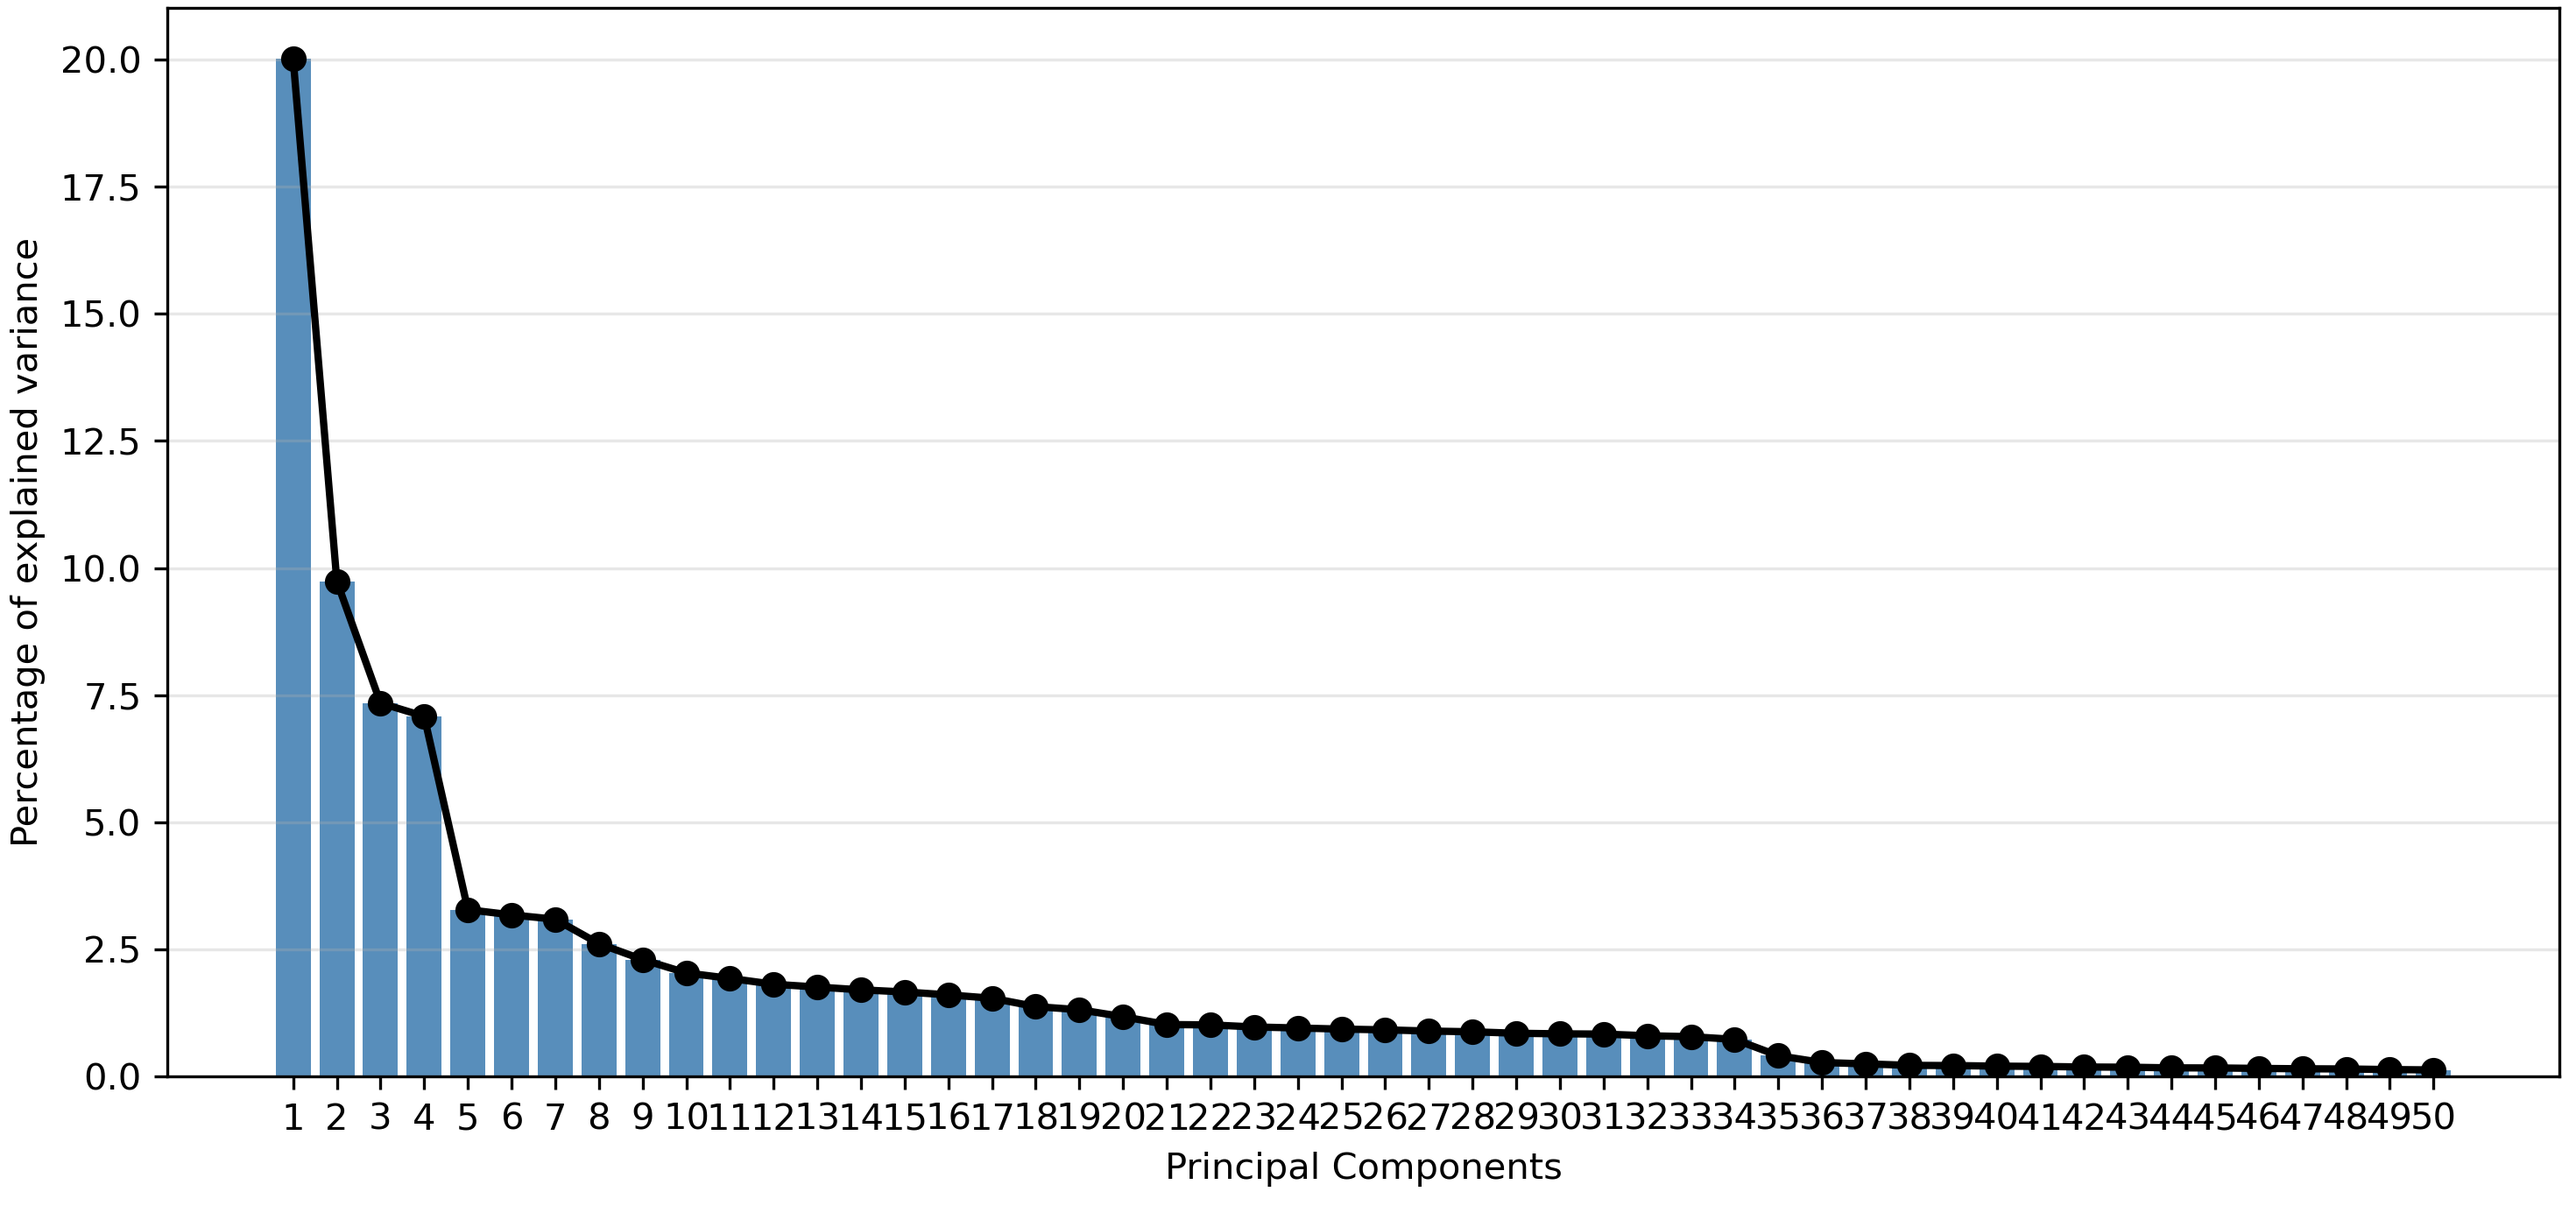
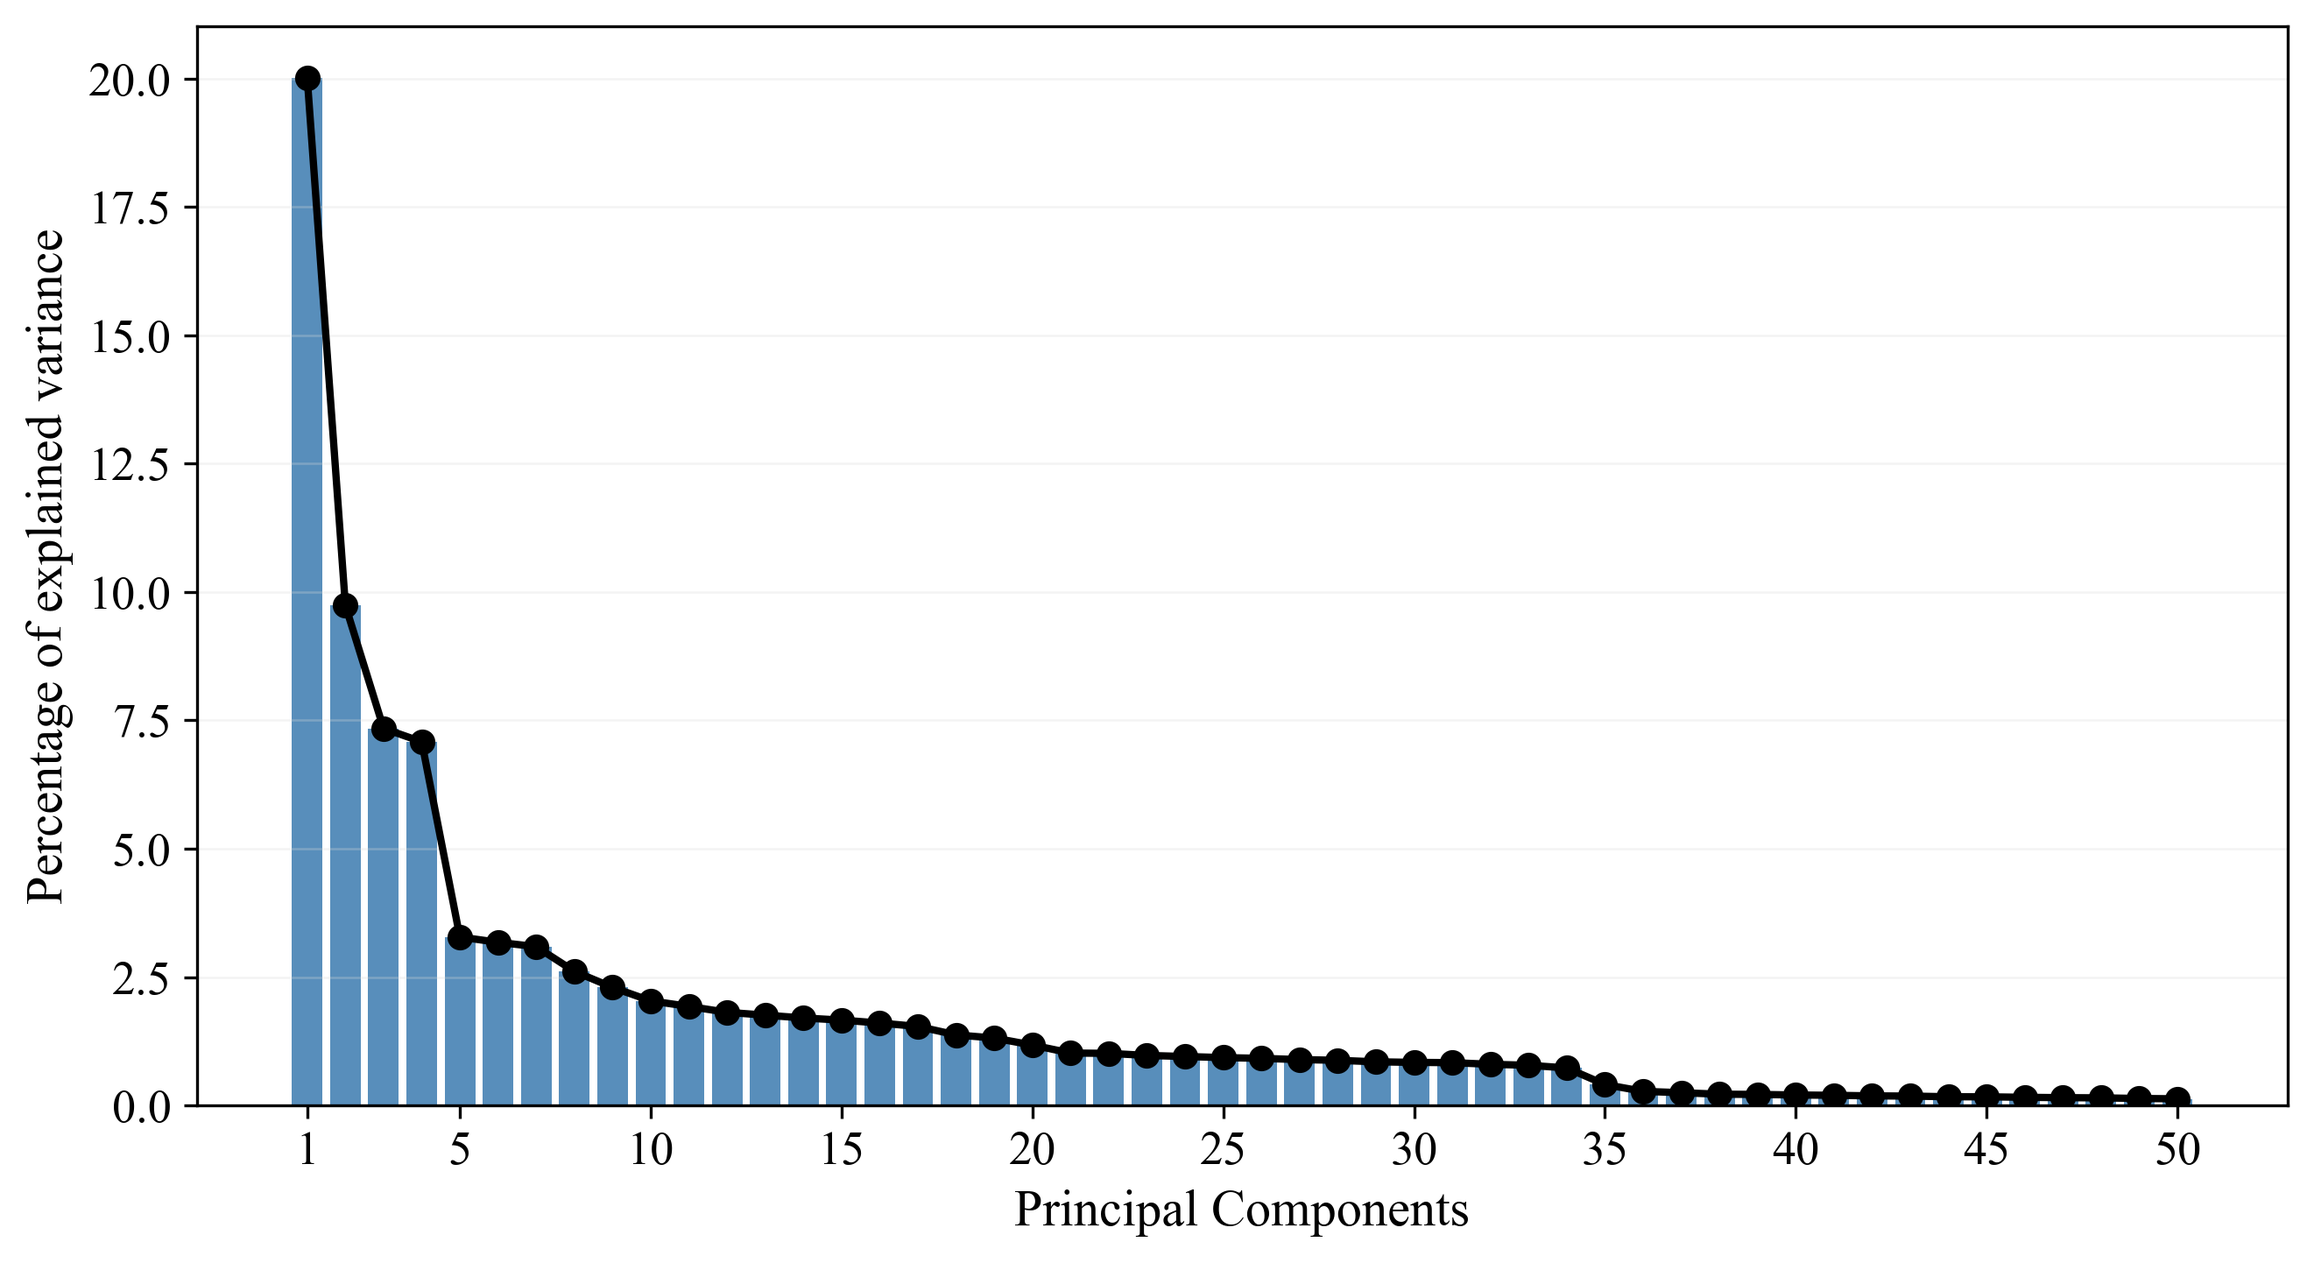
new images and correction
addition of the image of the spectrum reconstructed with 1 pc-component, new images with a more readable font

Changed region(s): [[0.0, 0.0, 1.0, 0.9935]]

diff --git a/Chapters/Ch_5.tex b/Chapters/Ch_5.tex
@@ -71,18 +71,25 @@ representations.
     \label{fig:pca_cumulative_variance}
 \end{figure}
 
-\Cref{fig:pca_reconstructed_89} shows the effect of retaining these \(89\) components on
-a single spectrum and provides a visual
-interpretation of the dimensionality reduction. The reconstructed curve preserves the
-main spectral profile.
+\Cref{fig:pca_reconstruction_comparison} shows the effect of reconstructing the same
+spectrum with a very small number of components and with the \(89\) components selected
+from the cumulative explained variance. The comparison provides a visual interpretation
+of the dimensionality reduction: a single component captures only the dominant trend,
+whereas the reconstruction with \(89\) components preserves the main spectral profile.
 
 
 \begin{figure}[H]
     \centering
-    \includegraphics[width=0.65\textwidth]{Images/images_ch_3/12_original_vs_reconstructed_89_components.png}
-    \caption{Comparison between an original Raman spectrum and its reconstruction using
-    the first \(89\) principal components.}
-    \label{fig:pca_reconstructed_89}
+    \subfloat[Reconstruction using the first principal component.\label{fig:pca_reconstructed_1}]{
+        \includegraphics[width=0.48\textwidth]{Images/images_ch_3/12_original_vs_reconstructed_1_components.png}
+    }
+    \hfill
+    \subfloat[Reconstruction using the first \(89\) principal components.\label{fig:pca_reconstructed_89}]{
+        \includegraphics[width=0.48\textwidth]{Images/images_ch_3/12_original_vs_reconstructed_89_components.png}
+    }
+    \caption{Comparison between an original Raman spectrum and its PCA reconstruction
+    using different numbers of retained principal components.}
+    \label{fig:pca_reconstruction_comparison}
 \end{figure}
 
 \subsection{Projection of spectra in PCA space}
